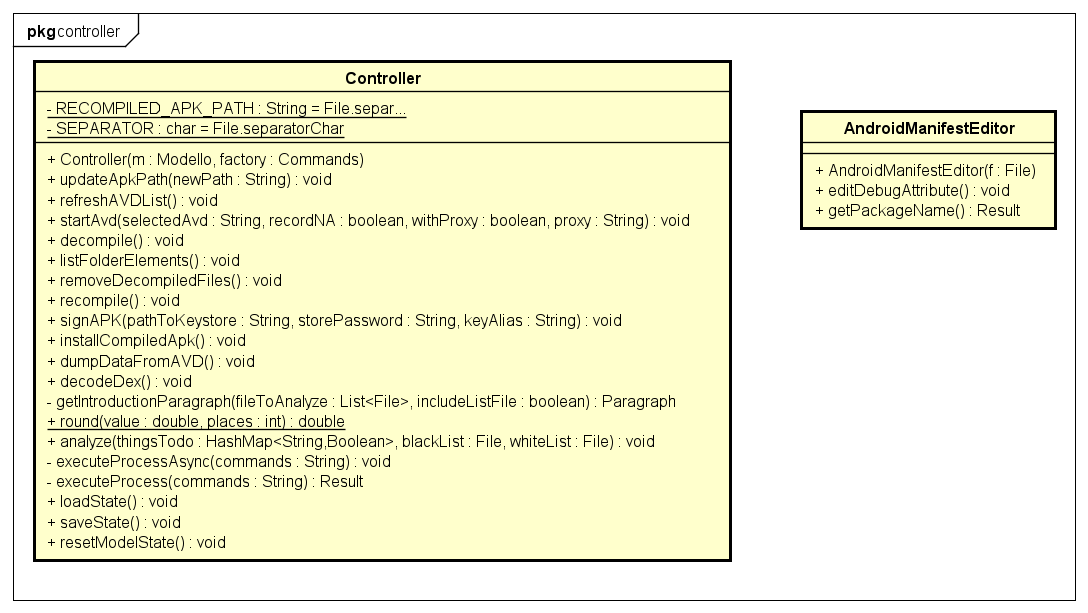
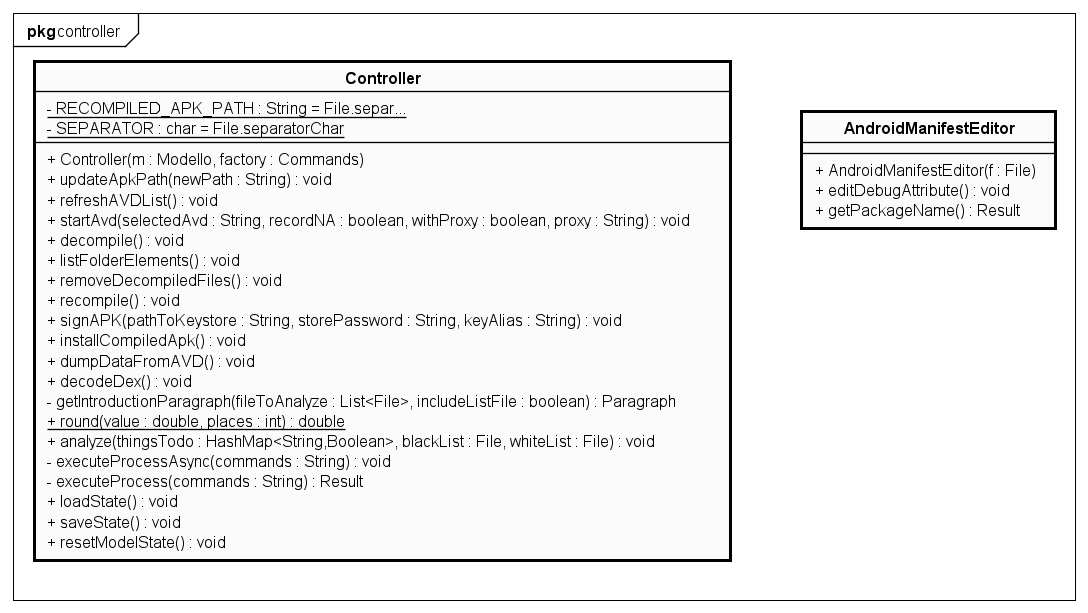
integrazione del glossario, resi i diagrammi B&W

diff --git a/tesi.tex b/tesi.tex
@@ -10,13 +10,13 @@
 % !TEX spellcheck = it-IT
 
 \documentclass[11pt,                    % corpo del font principale
-               a4paper,                 % carta A4
-               twoside,                 % impagina per fronte-retro
-               openright,               % inizio capitoli a destra
-               english,
-               italian,
-                ctexart,
-               ]{book}
+a4paper,                 % carta A4
+twoside,                 % impagina per fronte-retro
+openright,               % inizio capitoli a destra
+english,
+italian,
+ctexart,
+]{book}
 
 %**************************************************************
 % Importazione package
@@ -24,13 +24,13 @@
 %\usepackage{amsmath,amssymb,amsthm}    % matematica
 \usepackage[UTF8]{ctex}
 \usepackage[T1]{fontenc}                % codifica dei font:
-                                        % NOTA BENE! richiede una distribuzione *completa* di LaTeX
+% NOTA BENE! richiede una distribuzione *completa* di LaTeX
 
 \usepackage[utf8]{inputenc}             % codifica di input; anche [latin1] va bene
-                                        % NOTA BENE! va accordata con le preferenze dell'editor
+% NOTA BENE! va accordata con le preferenze dell'editor
 
 \usepackage[english, italian]{babel}    % per scrivere in italiano e in inglese;
-                                        % l'ultima lingua (l'italiano) risulta predefinita
+% l'ultima lingua (l'italiano) risulta predefinita
 
 \usepackage{bookmark}                   % segnalibri
 
@@ -42,7 +42,7 @@
 
 \usepackage{emptypage}                  % pagine vuote senza testatina e piede di pagina
 
-\usepackage{epigraph}			% per epigrafi
+\usepackage{epigraph}            % per epigrafi
 
 \usepackage{eurosym}                    % simbolo dell'euro
 
@@ -77,20 +77,20 @@
 \usepackage{ltxtable}                   % tabelle su più pagine e adattabili in larghezza
 
 \usepackage[toc, acronym]{glossaries}   % glossario
-                                        % per includerlo nel documento bisogna:
-                                        % 1. compilare una prima volta tesi.tex;
-                                        % 2. eseguire: makeindex -s tesi.ist -t tesi.glg -o tesi.gls tesi.glo
-                                        % 3. eseguire: makeindex -s tesi.ist -t tesi.alg -o tesi.acr tesi.acn
-                                        % 4. compilare due volte tesi.tex.
+% per includerlo nel documento bisogna:
+% 1. compilare una prima volta tesi.tex;
+% 2. eseguire: makeindex -s tesi.ist -t tesi.glg -o tesi.gls tesi.glo
+% 3. eseguire: makeindex -s tesi.ist -t tesi.alg -o tesi.acr tesi.acn
+% 4. compilare due volte tesi.tex.
 
 \usepackage[backend=biber,style=verbose-ibid,hyperref,backref]{biblatex}
-                                        % eccellente pacchetto per la bibliografia;
-                                        % produce uno stile di citazione autore-anno;
-                                        % lo stile "numeric-comp" produce riferimenti numerici
-                                        % per includerlo nel documento bisogna:
-                                        % 1. compilare una prima volta tesi.tex;
-                                        % 2. eseguire: biber tesi
-                                        % 3. compilare ancora tesi.tex.
+% eccellente pacchetto per la bibliografia;
+% produce uno stile di citazione autore-anno;
+% lo stile "numeric-comp" produce riferimenti numerici
+% per includerlo nel documento bisogna:
+% 1. compilare una prima volta tesi.tex;
+% 2. eseguire: biber tesi
+% 3. compilare ancora tesi.tex.
 
 \input{tesi-config}                     % file con le impostazioni personali
 
@@ -98,32 +98,32 @@
 %**************************************************************
 % Materiale iniziale
 %**************************************************************
-\frontmatter
-\input{inizio-fine/frontespizio}
-\input{inizio-fine/colophon}
-\input{inizio-fine/dedica}
-\input{inizio-fine/sommario}
-\input{inizio-fine/ringraziamenti}
-\input{inizio-fine/indici}
-\cleardoublepage
+    \frontmatter
+    \input{inizio-fine/frontespizio}
+    \input{inizio-fine/colophon}
+    \input{inizio-fine/dedica}
+    \input{inizio-fine/sommario}
+    \input{inizio-fine/ringraziamenti}
+    \input{inizio-fine/indici}
+    \cleardoublepage
 
 %**************************************************************
 % Materiale principale
 %**************************************************************
-\mainmatter
-\input{./capitoli/1_0_introduzione.tex}             % Introduzione
-\input{./capitoli/2_0_descrizione_stage.tex}             % Kick-Off
-\input{./capitoli/3_0_analisi_dei_requisiti.tex}             % Concept Preview
-\input{./capitoli/4_0_progettazione_codifica.tex}             % Product Prototype
-\input{./capitoli/5_0_verifica_validazione.tex}             % Product Design Freeze e SOP
-\input{./capitoli/6_0_conclusioni.tex}             % Conclusioni
-\appendix
-\input{capitoli/capitolo-A}             % Appendice A
+    \mainmatter
+    \input{./capitoli/1_0_introduzione.tex}             % Introduzione
+    \input{./capitoli/2_0_descrizione_stage.tex}             % Kick-Off
+    \input{./capitoli/3_0_analisi_dei_requisiti.tex}             % Concept Preview
+    \input{./capitoli/4_0_progettazione_codifica.tex}             % Product Prototype
+    \input{./capitoli/5_0_verifica_validazione.tex}             % Product Design Freeze e SOP
+    \input{./capitoli/6_0_conclusioni.tex}             % Conclusioni
+    \appendix
+    \input{capitoli/capitolo-A}             % Appendice A
 
 %**************************************************************
 % Materiale finale
 %**************************************************************
-\backmatter
-\printglossaries
-\input{inizio-fine/bibliografia}
+    \backmatter
+    \printglossaries
+    \input{inizio-fine/bibliografia}
 \end{document}

diff --git a/capitoli/1_1_idea.tex b/capitoli/1_1_idea.tex
@@ -6,7 +6,7 @@
 Le applicazioni mobili rappresentano oggi una delle principali sfide per la sicurezza informatica: negli ultimi anni se la rapida diffusione degli smartphone ha visto emergere il mobile come uno dei principali canali per l'erogazione di servizi, sono aumentati esponenzialmente gli attacchi contro le piattaforme mobili.\\
 L'applicazione quindi deve garantire l'integrità, la confidenzialità, la disponibilità dati e che questi ultimi siano disponibili solo agli soggetti che dispongono dell'autenticazione e dell'autorizzazione.
 
-Quindi la sicurezza delle applicazioni non può essere garantita solo dall'attività di verifica, ma l'obiettivo di raggiungere la sicurezza intrinseca deve perpetuare nelle diverse fasi dello sviluppo software, come per esempio nel Secure Software Development Lifecycle\footcite{site:ssdl} la sicurezza la si persegue in diverse fasi:
+La sicurezza delle applicazioni non può essere garantita solo dall'attività di verifica, ma l'obiettivo di raggiungere la sicurezza intrinseca deve perpetuare nelle diverse fasi dello sviluppo software, come per esempio nel Secure Software Development Lifecycle\footcite{site:ssdl} la sicurezza la si persegue in diverse fasi:
 \begin{itemize}
     \item \textit{Analisi:} in questa fase bisogna individuare quali sono i rischi che il software è sottoposto, quindi individuare i requisiti che il software deve soddisfare per contrastare i potenziali attacchi,
     \item \textit{Progettazione:} in questa fase è necessario prestare attenzione nell'adozione delle librerie esterne, assicurandosi che quest'ultime non abbiano falle di sicurezza che minano l'integrità dell'intero software, inoltre, è necessario adottare i standard di sicurezza consolidati;
@@ -43,10 +43,13 @@ Le principali minacce\footcite{site:owasp} del mondo delle applicazioni mobile s
     Questa vulnerabilità comporta il recupero non autorizzato d'informazioni sensibili dal dispositivo mobile e violazione di privacy.
     \item \textit{Insecure authorization:}
     gli agenti delle minacce che sfruttano le vulnerabilità delle autorizzazioni in genere lo fanno attraverso gli attacchi automatici che utilizzano strumenti disponibili o personalizzati.
-    \item \textit{Client code quality:} include entità che possono trasmettere input non attendibili alle chiamate di metodo effettuate all'interno del codice mobile. Questi tipi di problemi non sono necessariamente problemi di sicurezza in sé, ma possono causare problemi si vulnerabilità.
+    \item \textit{Client code quality:} include entità che possono trasmettere input non attendibili alle chiamate di metodo effettuate all'interno del codice mobile.
+    Questi tipi di problemi non sono necessariamente problemi di sicurezza in sé, ma possono causare problemi si vulnerabilità.
+
     \item \textit{Code tampering:}
     in genere, un utente malintenzionato sfrutta la modifica del codice tramite forme dannose delle app ospitante negli app store di terze parti.
-    L'utente malintenzionato può anche indurre l'utente a installare l'app tramite attacchi di phishing. In genere, per sfruttare questo tipo di vulnerabilità, un utente malintenzionato eseguirà le seguenti operazioni: apportare modifiche binarie dirette al file binario principale del pacchetto dell'applicazione, apportare modifiche binarie dirette alle risorse, e reindirizzare o sostituire le API di sistema per intercettare ed eseguire il codice esterno dannoso.
+    L'utente malintenzionato può anche indurre l'utente a installare l'app tramite attacchi di phishing.
+    In genere, per sfruttare questo tipo di vulnerabilità, un utente malintenzionato eseguirà le seguenti operazioni: apportare modifiche binarie dirette al file binario principale del pacchetto dell'applicazione, apportare modifiche binarie dirette alle risorse, e reindirizzare o sostituire le API di sistema per intercettare ed eseguire il codice esterno dannoso.
 
     \item \textit{Reverse engineering:}
     un utente malintenzionato in genere scarica l'app di destinazione da un app store e la analizza nel proprio ambiente locale utilizzando una suite di strumenti diversi. Un malintenzionato deve eseguire un'analisi del file binario core finale per determinare la tabella di stringhe originale, il codice sorgente, le librerie, gli algoritmi e le risorse incorporate nell'app.
@@ -54,4 +57,4 @@ Le principali minacce\footcite{site:owasp} del mondo delle applicazioni mobile s
     un utente malintenzionato cerca di comprendere le funzionalità estranee all'interno di un'app mobile  al fine di scoprire funzionalità nascoste nei sistemi di back-end.
     L'attaccante in genere sfrutta funzionalità estranee direttamente dai propri sistemi senza alcun coinvolgimento da parte degli utenti finali.
 \end{itemize}
-Le applicazioni mobili soffrono spesso di debolezze intrinseche dovute al design dell'applicazione e al suo sviluppo, debolezze che possono prevedere la memorizzazione d'informazioni sensibili sul device, possibilità di modificare l'applicazione (mediante \gls{repackaging} dell'App), o la possibilità di un semplice reverse engineering.
+Le applicazioni mobili soffrono spesso di debolezze intrinseche dovute al design dell'applicazione e al suo sviluppo, debolezze che possono prevedere la memorizzazione d'informazioni sensibili sul device, possibilità di modificare l'applicazione (mediante \gls{repackaging} dell'app), o la possibilità di un semplice \gls{reverse_engineering}.

diff --git a/capitoli/4_1_tecnologie_strumenti.tex b/capitoli/4_1_tecnologie_strumenti.tex
@@ -51,7 +51,7 @@ Nell'APAT è stato utilizzato per contenere i dati di stato del tool quando vien
 \end{figure}
 
 \subsection*{XPath}\label{subsec:xpath}
-In informatica XPath è un linguaggio, parte della famiglia XML, che permette di individuare i nodi all'interno di un documento XML. Le espressioni XPath, a differenza delle espressioni XML, non servono a identificare la struttura di un documento, bensì a localizzarne con precisione i nodi.
+In informatica XPath è un linguaggio, parte della famiglia \gls{xml}, che permette d'individuare i nodi all'interno di un documento XML. Le espressioni XPath, a differenza delle espressioni XML, non servono a identificare la struttura di un documento, bensì a localizzarne con precisione i nodi.
 Nell'APAT è stato utilizzato per poter estrapolare alcuni dati necessari per poter effettuare il dump dei dati dall'area di storage dell'app e ottenere le informazioni per poter decompilare solamente presenti nel package dell'applicazione.
 
 
@@ -67,7 +67,8 @@ L'\gls{ide} utilizzato per la scrittura del codice in Java sviluppato da JetBrai
 \end{figure}
 
 \subsection*{Android Emulator}
-Lo strumento che permette di avviare degli emulatori Android, conosciuti anche come AVD. È stato utilizzato per eseguire l'applicazione ricompilata, per poter fare il dump dei dati presenti nell'area di storage dell'applicazione, come i file JSON, XML e SQLite, o come il file delle attività di rete.
+Lo strumento che permette di avviare degli emulatori Android, conosciuti anche come \gls{avd}.
+È stato utilizzato per eseguire l'applicazione ricompilata, per poter fare il dump dei dati presenti nell'area di storage dell'applicazione, come i file JSON, XML e SQLite, o come il file delle attività di rete.
 \url{https://developer.android.com/studio/run/emulator}
 \begin{figure}[H]
     \centering
@@ -86,7 +87,7 @@ Maven è un tool di \gls{buildautomation}, basato sul concetto di Project Object
 Nel caso dell'APAT è stato utilizzato per la build del tool, generando in questo modo il file jar.
 
 \subsection*{Astah UML}
-Astah è uno strumento di modellazione UML. Permette di creare vari diagrammi UML, come quelli di classe, di package, di sequenza e di attività.
+Astah è uno strumento di modellazione \gls{uml}. Permette di creare vari diagrammi UML, come quelli di classe, di package, di sequenza e di attività.
 \url{https://astah.net/products/astah-community/}
 \begin{figure}[H]
     \centering
@@ -96,7 +97,7 @@ Astah è uno strumento di modellazione UML. Permette di creare vari diagrammi UM
 
 \subsection*{Git - GitLab}
 Gitlab è una piattaforma web open-source che permette la gestione di repository e di funzioni d'issue tracking system.
-Questa è un'istanza privata dell'azienda Imola Informatica S.p.A.
+Questa è un'istanza privata dell'azienda Imola Informatica S.p.A..
 \url{https://git.imolinfo.it/users/sign_in}
 \begin{figure}[H]
     \centering

diff --git a/inizio-fine/sommario.tex b/inizio-fine/sommario.tex
@@ -15,8 +15,8 @@
 
 \chapter*{Sommario}
 
-Il presente documento descrive il lavoro svolto durante il periodo di stage, della durata di circa trecento ore, dal laureando Xiaowei Wen presso l'azienda Imola Informatica S.p.A. Gli obiettivi da raggiungere erano molteplici. In primo luogo era richiesto lo sviluppo di un tool in grado di automatizzare la decompilazione di un file \textit{APK} e la ricompilazione del file. In secondo luogo era richiesta l'implementazione di alcune funzionalità di analisi del codice sorgente ottenuto dal passo precedente.
-Terzo e ultimo obbiettivo era quello di permettere di eseguire l'app con il proxy in un AVD e di monitorare il traffico di rete generando un file \textit{pcap}.
+Il presente documento descrive il lavoro svolto durante il periodo di stage, della durata di circa trecento ore, dal laureando Xiaowei Wen presso l'azienda Imola Informatica S.p.A. Gli obiettivi da raggiungere erano molteplici. In primo luogo era richiesto lo sviluppo di un tool in grado di automatizzare la decompilazione di un file \gls{apk} e la ricompilazione del file. In secondo luogo era richiesta l'implementazione di alcune funzionalità di analisi del codice sorgente ottenuto dal passo precedente.
+Terzo e ultimo obbiettivo era quello di permettere di eseguire l'app con il proxy in un \gls{avd} e di monitorare il traffico di rete generando un file \gls{pcap}.
 
 %\vfill
 %

diff --git a/capitoli/1_3_azienda.tex b/capitoli/1_3_azienda.tex
@@ -3,8 +3,10 @@
 % !TEX root = ../tesi.tex
 \section{L'azienda}\label{sec:l'azienda}
 
-Imola Informatica è una società indipendente di consulenza IT, entra in gioco ogni volta in cui una azienda pubblica o privata vuole migliorare i propri servizi. Innovare i propri processi di lavoro, gli approcci di management per cogliere le opportunità business offerte dalla trasformazione digitale.
+Imola Informatica è una società indipendente di consulenza IT, entra in gioco ogni volta in cui una azienda pubblica o privata vuole migliorare i propri servizi.
+Innovare i propri processi di lavoro, gli approcci di management per cogliere le opportunità business offerte dalla trasformazione digitale.
 
 È a servizio dei principali gruppi finanziari e assicurativi e ogni giorno è a fianco di grandi aziende e piccole startup nel gestire il cambiamento tecnologico e culturale.
 
-Fa parte di una rete che condivide l’idea di fare innovazione a misura delle persone, delle imprese e della collettività. Sono impegnati per lo sviluppo consapevole di comunità locali e smart cities.
+Fa parte di una rete che condivide l’idea di fare innovazione a misura delle persone, delle imprese e della collettività.
+Sono impegnati per lo sviluppo consapevole di comunità locali e smart cities.

diff --git a/capitoli/1_2_introduzione_al_progetto.tex b/capitoli/1_2_introduzione_al_progetto.tex
@@ -8,7 +8,7 @@ Le funzionalità richieste sono le seguenti operazioni:
 \begin{enumerate}
     \item decompilazione di un file apk;
     \item ricompilazione del file apk e la conseguente firma;
-    \item decodifica dei file \textit{dex} in codice sorgente \textit{java};
+    \item decodifica dei file \gls{dex} in codice sorgente \textit{java};
     \item dump dell'area di storage dell'applicazione (compresi i file json, xml e database SQLite);
     \item avvio dell'Android emulator device con le opzioni di proxy e permettere la registrazione delle attività di rete;
     \item eseguire l'analisi del codice sorgente e dei file ottenuti dal passo 4 e infine estrarre i dati dai file di database generando, al termine dell'operazione di analisi, un file di resoconto con i risultati dell'analisi.

diff --git a/capitoli/5_2_test_unitari.tex b/capitoli/5_2_test_unitari.tex
@@ -4,7 +4,7 @@ Per unità si intende normalmente il componente più piccolo con funzionamento a
 Come le altre forme di test, i test d'unità può variare da completamente manuale ad automatico.
 Specialmente nel caso dello unit testing automatico, lo sviluppo dei test case può essere considerato parte integrante dell'attività di sviluppo.\\
 
-Nel caso del progetto APAT i test unitari sono stati fatti utilizzando il framework JUnit4\footcite{site:junit4} integrato con il tool di \gls{buildautomation} Maven\footcite{site:maven}.
+Nel caso del progetto \gls{apat} i test unitari sono stati fatti utilizzando il framework JUnit4\footcite{site:junit4} integrato con il tool di \gls{buildautomation} Maven\footcite{site:maven}.
 \setcounter{rowcount}{0}
 
 \newcounter{testCounter}
